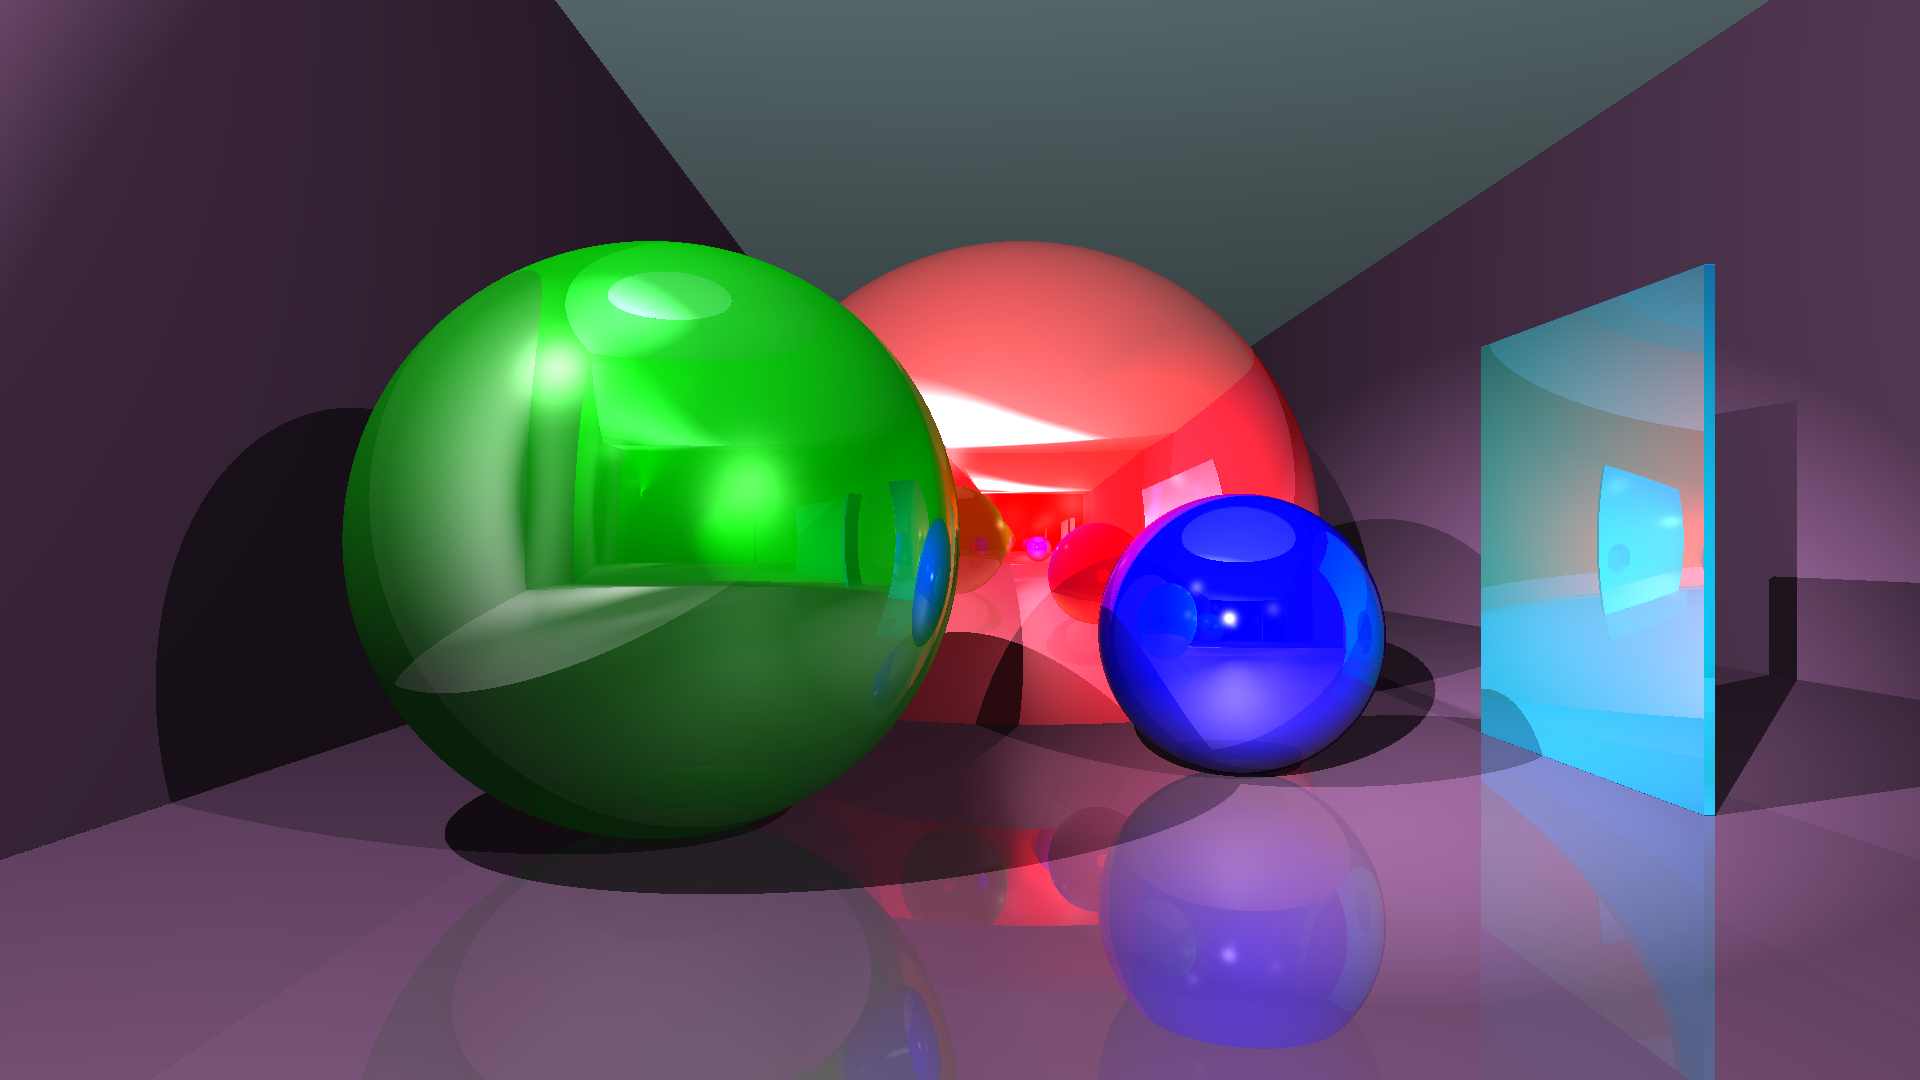
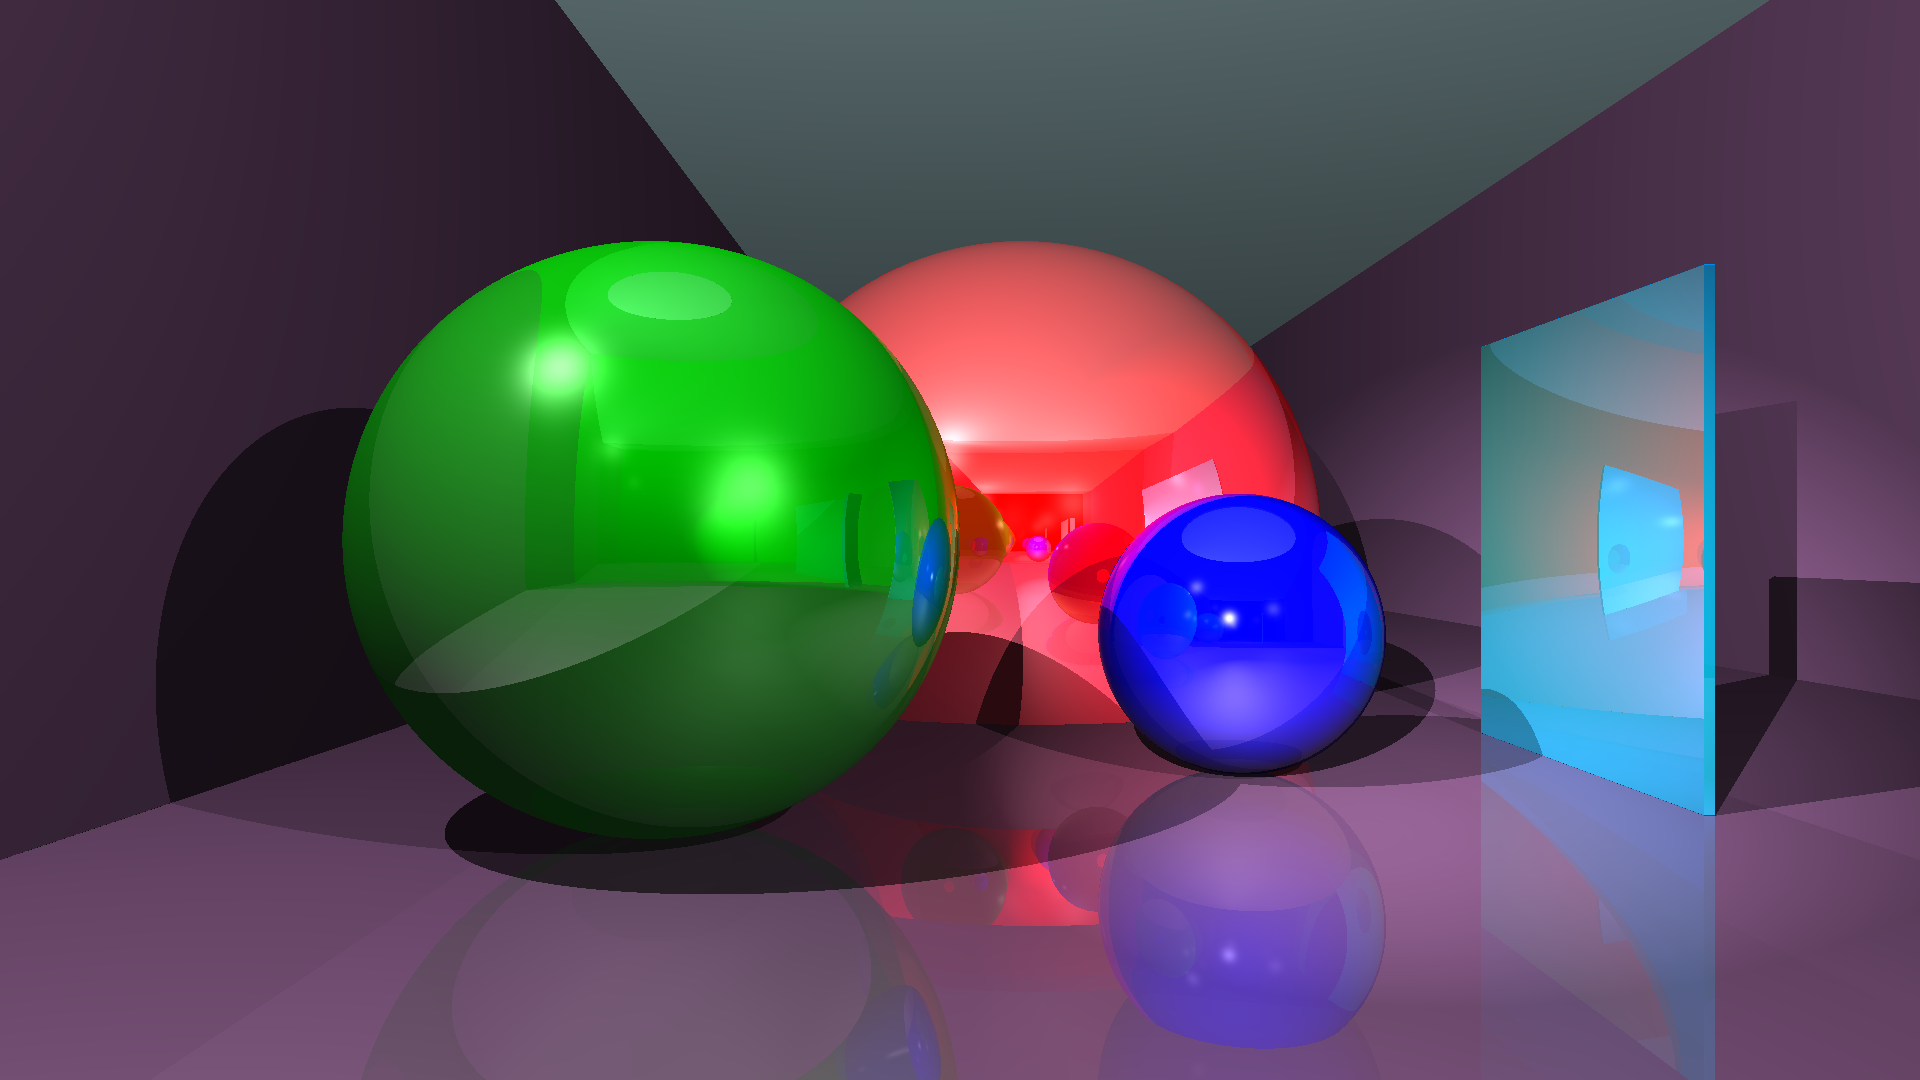
Spotlight attenuation fix. Scenes and output images were updated.

diff --git a/src/main/java/io/klinamen/joclray/samples/Scene2.java b/src/main/java/io/klinamen/joclray/samples/Scene2.java
@@ -22,13 +22,13 @@ public class Scene2 {
                 .add(new SpotLight()
                         .setIntensity(2.5f)
                         .setPosition(new FloatVec4(4, 8, 0))
-                        .setAngleGrad(15)
+                        .setAngleGrad(30)
                         .setDirection(new FloatVec4(-0.4f, -0.4f, -1))
                 )
                 .add(new SpotLight()
                         .setIntensity(2.5f)
                         .setPosition(new FloatVec4(-4, 8, 0))
-                        .setAngleGrad(15)
+                        .setAngleGrad(30)
                         .setDirection(new FloatVec4(0.4f, -0.4f, -1))
                 )
                 .add("Blue_Sphere", new Sphere()

diff --git a/src/main/java/io/klinamen/joclray/samples/Scene1.java b/src/main/java/io/klinamen/joclray/samples/Scene1.java
@@ -22,9 +22,9 @@ public class Scene1 {
                         .setPosition(new FloatVec4(-12, 15, -10))
                 )
                 .add(new SpotLight()
-                        .setIntensity(3f)
+                        .setIntensity(2.5f)
                         .setPosition(new FloatVec4(-3, 5, 0))
-                        .setAngleGrad(20)
+                        .setAngleGrad(40)
                         .setDirection(new FloatVec4(0.5f, -0.3f, -1))
                 )
                 .add(new PointLight()
